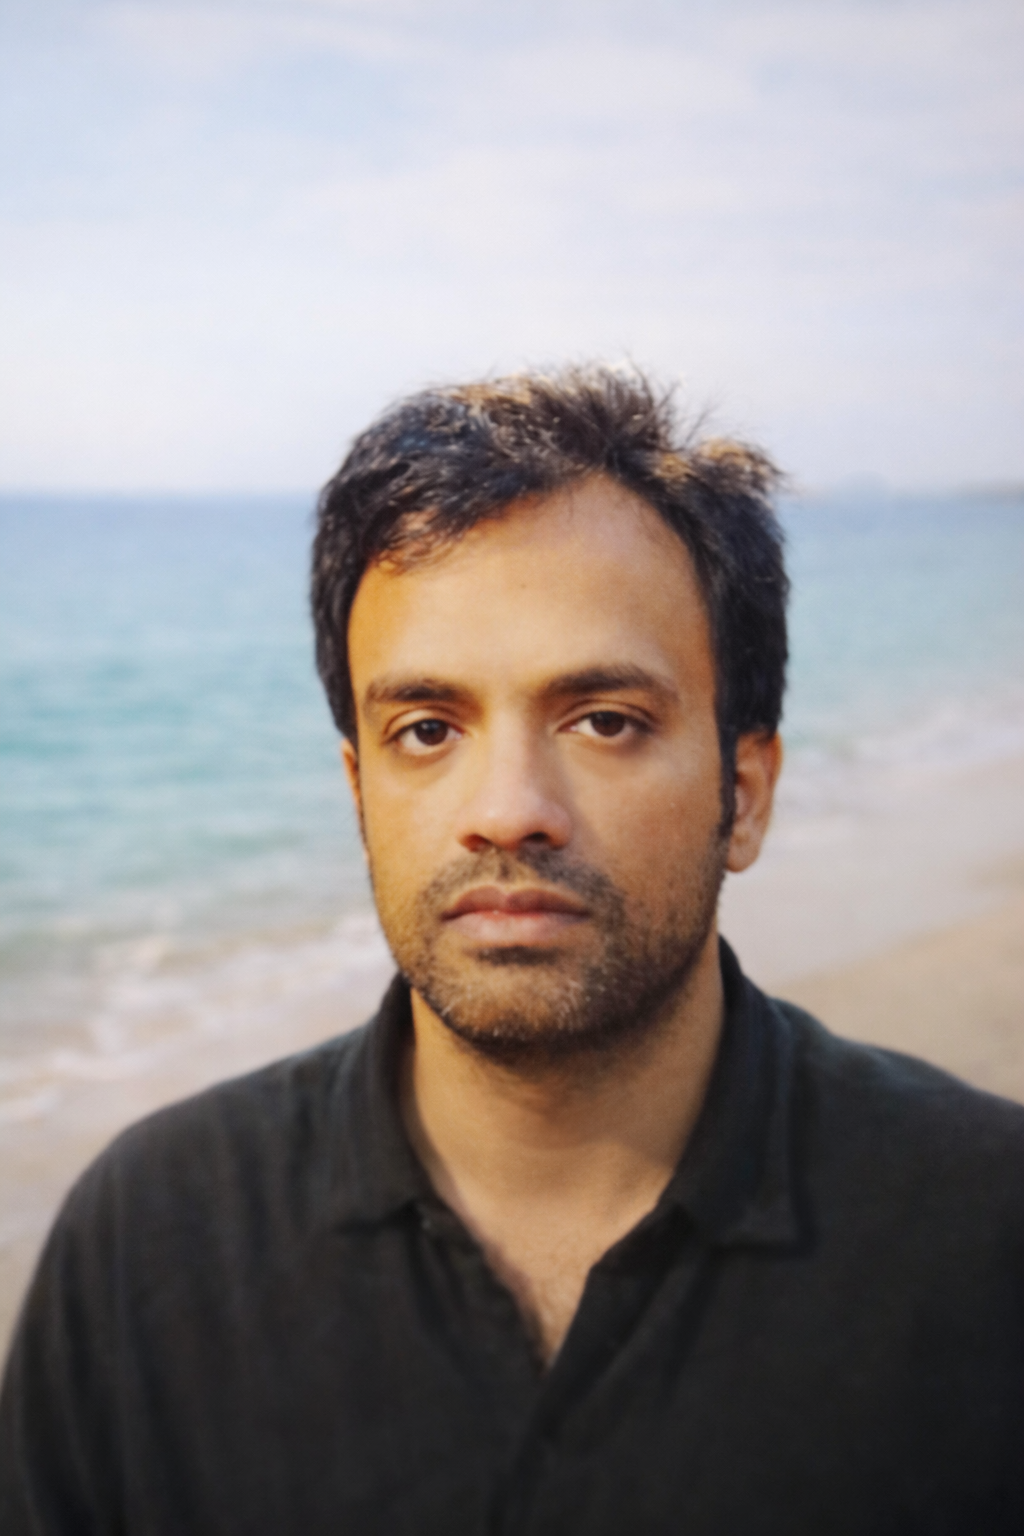
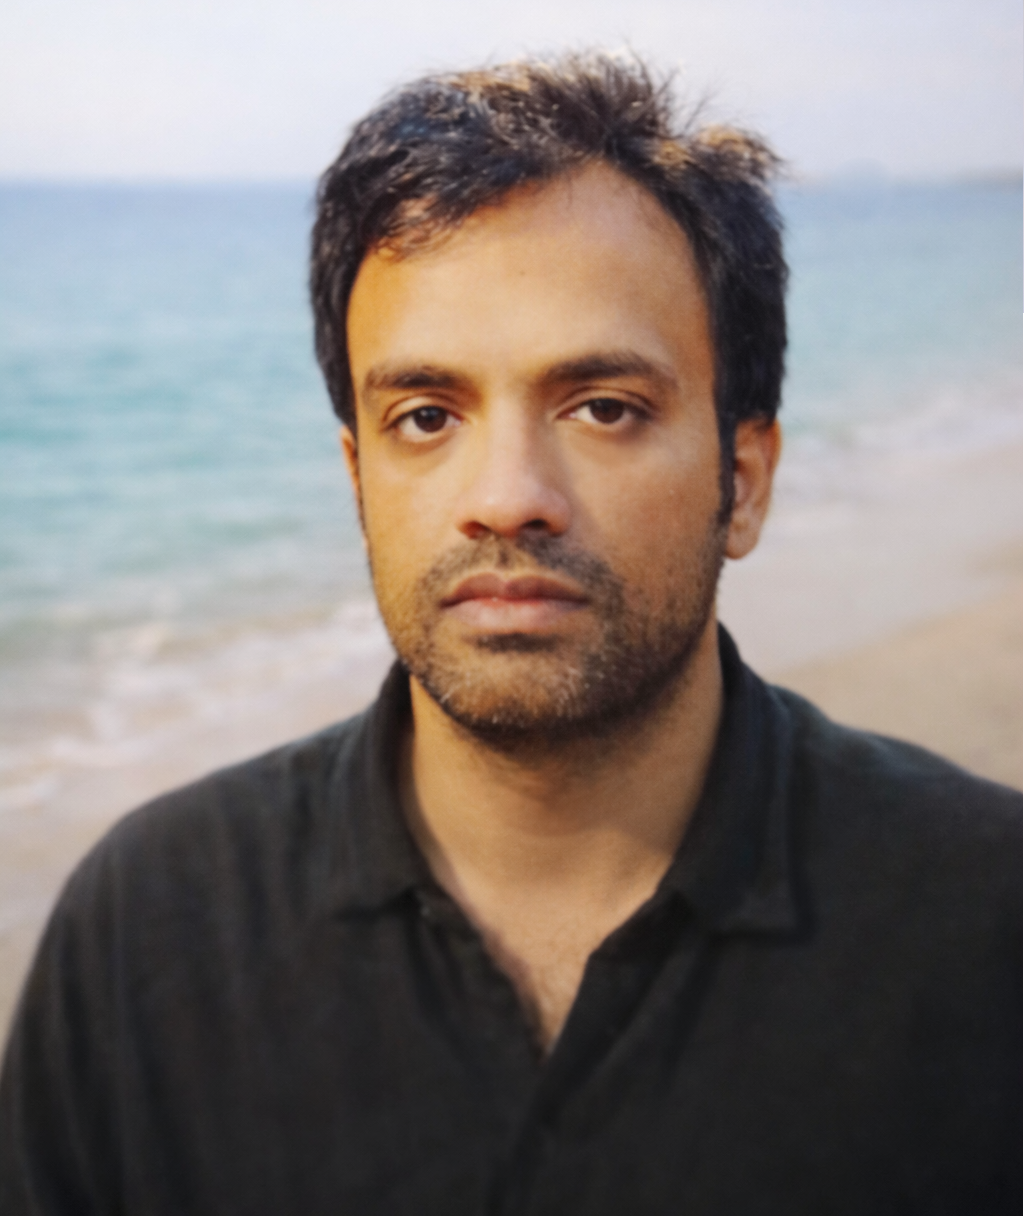
Update

diff --git a/frontend/src/mockData.js b/frontend/src/mockData.js
@@ -232,10 +232,10 @@ export const careerRoles = [
 export const teamMembers = [
   {
     id: 1,
-    name: "George D. Schindler",
+    name: "Vikas Grover",
     designation: "President & Chief Executive Officer",
-    bio: "Leading CGI's global vision with focus on innovation, client partnerships, and sustainable growth strategies.",
-    image: "https://randomuser.me/api/portraits/men/32.jpg"
+    bio: "Leading Aventra Consulting Inc.'s global vision with focus on innovation, client partnerships, and sustainable growth strategies.",
+    image: "../public/team/CEO.jpg"
   },
   {
     id: 2,
@@ -272,46 +272,4 @@ export const teamMembers = [
     bio: "Protecting organizational assets, ensuring compliance, and leading cybersecurity strategy for clients and operations.",
     image: "https://randomuser.me/api/portraits/women/44.jpg"
   },
-  {
-    id: 7,
-    name: "David Thompson",
-    designation: "Chief Marketing Officer",
-    bio: "Shaping brand strategy, market positioning, and client engagement initiatives across all regions and industries.",
-    image: "https://randomuser.me/api/portraits/men/28.jpg"
-  },
-  {
-    id: 8,
-    name: "Lisa Anderson",
-    designation: "Chief Human Resources Officer",
-    bio: "Building talent strategy, fostering inclusive culture, and developing leadership programs for global workforce.",
-    image: "https://randomuser.me/api/portraits/women/32.jpg"
-  },
-  {
-    id: 9,
-    name: "Robert Martinez",
-    designation: "Chief Strategy Officer",
-    bio: "Defining corporate strategy, identifying growth opportunities, and leading mergers and acquisitions for expansion.",
-    image: "https://randomuser.me/api/portraits/men/38.jpg"
-  },
-  {
-    id: 10,
-    name: "Emily Watson",
-    designation: "Chief Customer Officer",
-    bio: "Enhancing client experience, building long-term partnerships, and ensuring value delivery across all engagements.",
-    image: "https://randomuser.me/api/portraits/women/28.jpg"
-  },
-  {
-    id: 11,
-    name: "James Kim",
-    designation: "Chief Innovation Officer",
-    bio: "Driving innovation labs, emerging technology adoption, and R&D initiatives for competitive advantage.",
-    image: "https://randomuser.me/api/portraits/men/42.jpg"
-  },
-  {
-    id: 12,
-    name: "Maria Santos",
-    designation: "Chief Legal Officer",
-    bio: "Leading legal affairs, compliance programs, risk management, and governance across all CGI operations.",
-    image: "https://randomuser.me/api/portraits/women/38.jpg"
-  }
 ];

diff --git a/frontend/src/pages/AboutPage.jsx b/frontend/src/pages/AboutPage.jsx
@@ -114,9 +114,9 @@ const AboutPage = () => {
           </p>
           <div className="grid md:grid-cols-3 gap-8">
             {[
-              { name: 'Deepti Grover', title: 'Chief Operating Officer', image: './assets/team/COO.jpg' },
-              { name: 'Vikas Grover', title: 'President and CEO', image: './assets/team/CEO.jpg' },
-              { name: 'Ramesh Mahajan', title: 'Executive Vice-President and CFO', image: './assets/team/CFO.jpg' }
+              { name: 'Deepti Grover', title: 'Chief Operating Officer', image: './team/COO.jpg' },
+              { name: 'Vikas Grover', title: 'President and CEO', image: './team/CEO.jpg' },
+              { name: 'Ramesh Mahajan', title: 'Executive Vice-President and CFO', image: './team/CFO.png' }
 
             ].map((leader) => (
               <div key={leader.name} className="text-center">
